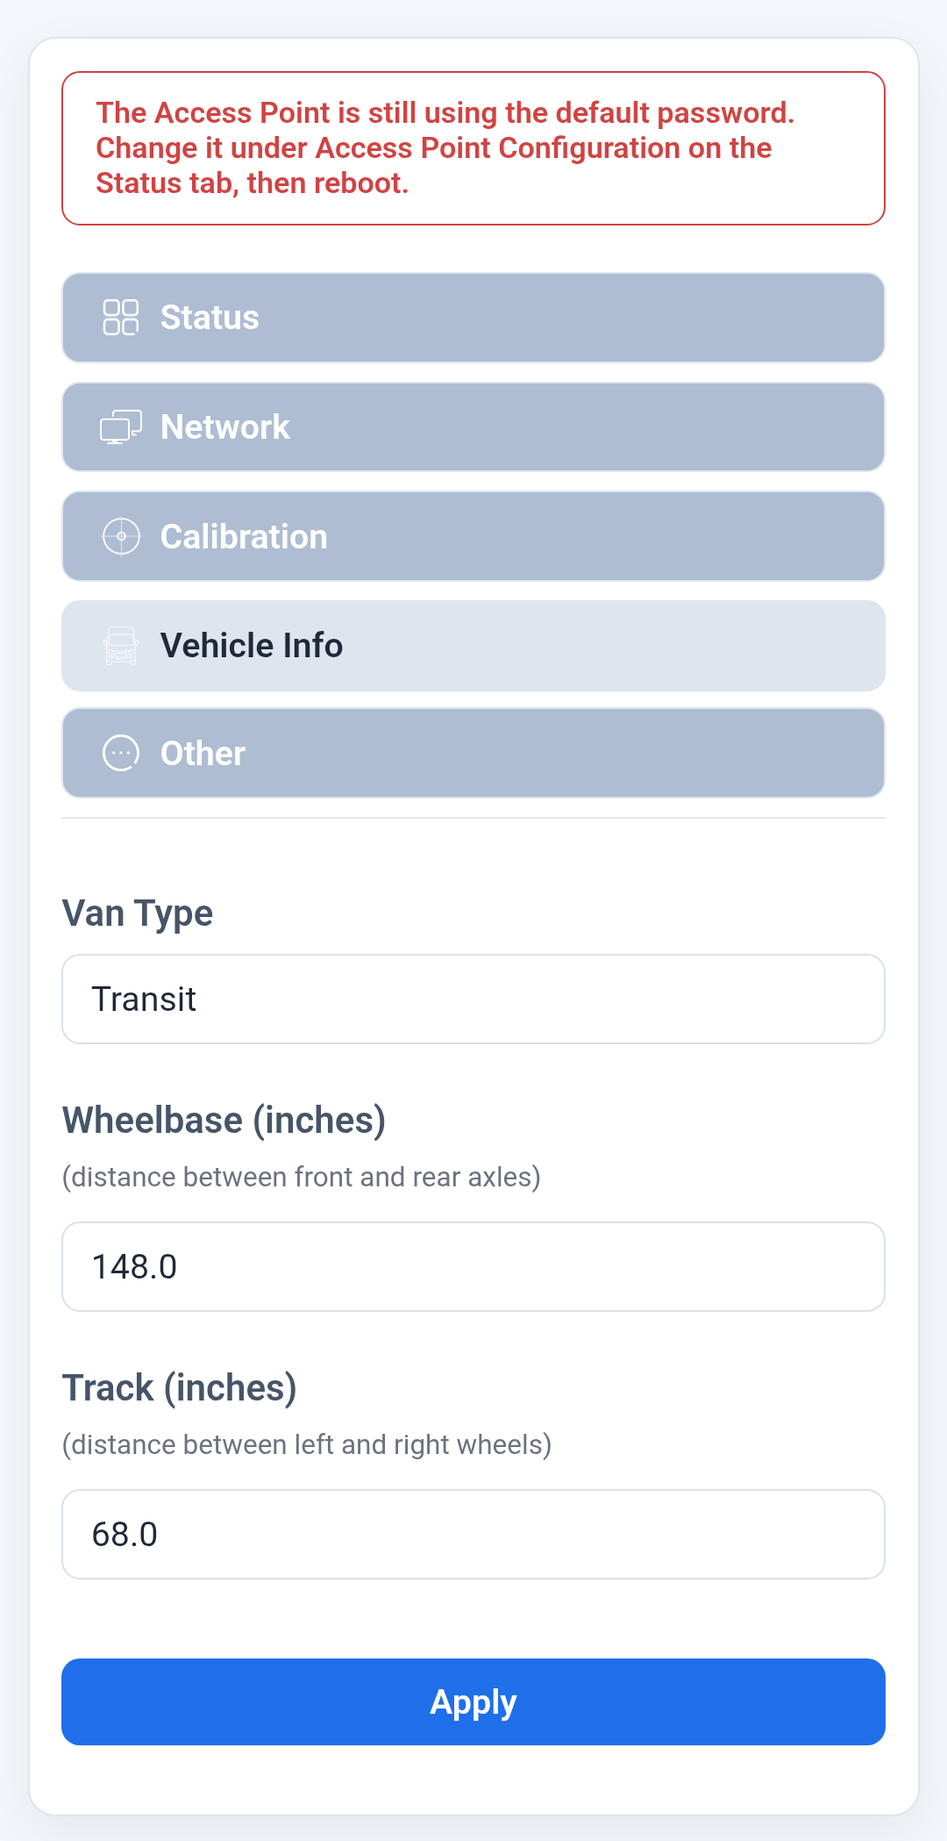
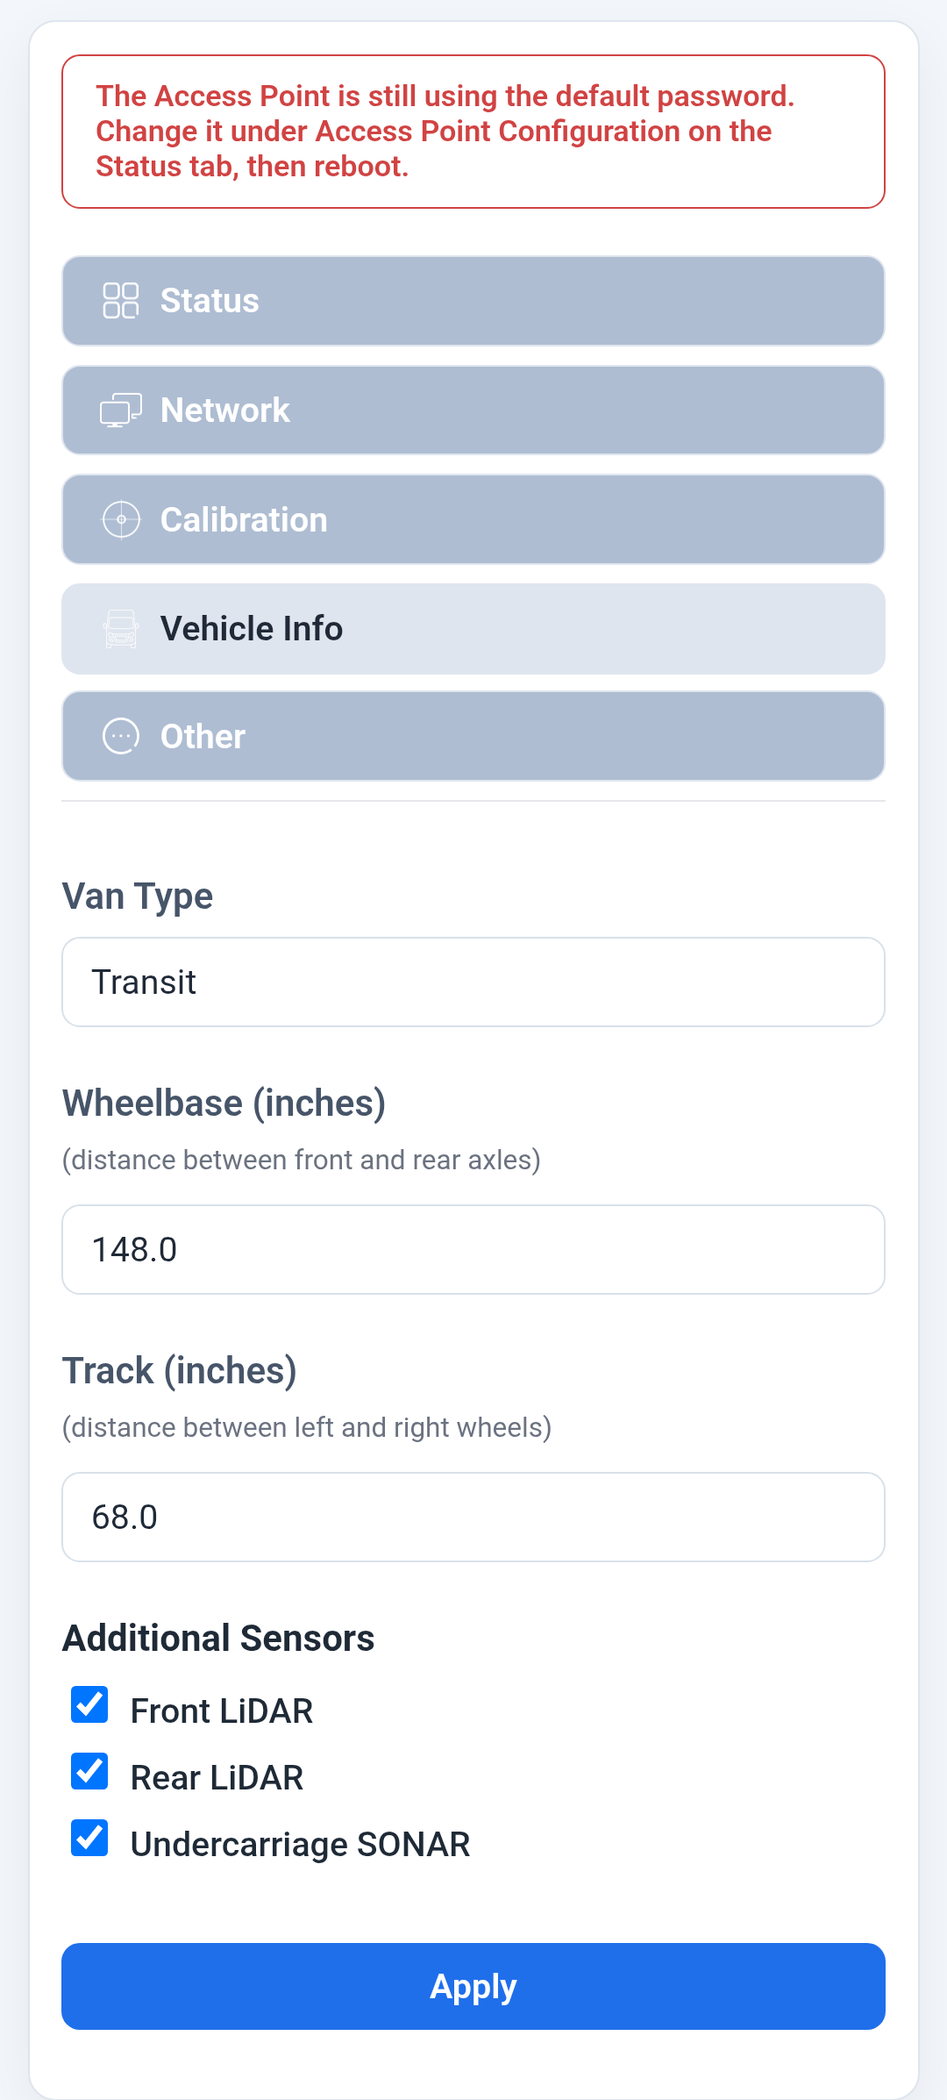
Added unique identifier to AP
Removed APconfig.json file and moved default AP configuration into code.  Added unique identifier to AP name.  Documentation updates.

diff --git a/Van_Level_App/Van_Level/data/index.html b/Van_Level_App/Van_Level/data/index.html
@@ -7,7 +7,9 @@
   <meta http-equiv=X-UA-Compatible content=IE=edge>
   <title>Van Level</title>
   <meta name="viewport" content="width=device-width, initial-scale=1">
-  <link rel="icon" type="image/png" href="images/favicon.png">
+  <link rel="icon" type="image/png" sizes="32x32" href="images/favicon-32x32.png">
+  <link rel="icon" type="image/png" sizes="16x16" href="images/favicon-16x16.png">
+  <link rel="icon" href="images/favicon.ico" sizes="any">
   <style>
     :root {
       color-scheme: light dark;
@@ -299,7 +301,8 @@
       var meters = distance * unit.meters;
       var state = "unknown";
       if (distance >= 0 && id === 1) {
-        state = meters < 0.0508 ? "obstacle" : "clear";
+        if (!Number.isFinite(reading.obstacleThresholdMm) || reading.obstacleThresholdMm <= 0) return unknown;
+        state = meters < reading.obstacleThresholdMm / 1000 ? "obstacle" : "clear";
       } else if (distance > 0) {
         var clearDistance = Math.round(LIDAR_MAX_METERS / unit.meters * 10);
         state = reading.distance >= clearDistance ? "clear" : "obstacle";

diff --git a/Van_Level_App/Van_Level/data/setup.html b/Van_Level_App/Van_Level/data/setup.html
@@ -6,7 +6,9 @@
   <meta http-equiv=X-UA-Compatible content=IE=edge>
   <meta name=viewport content="width=device-width, initial-scale=1">
   <title>Van Level Setup</title>
-  <link rel="icon" type="image/png" href="images/favicon.png">
+  <link rel="icon" type="image/png" sizes="32x32" href="images/favicon-32x32.png">
+  <link rel="icon" type="image/png" sizes="16x16" href="images/favicon-16x16.png">
+  <link rel="icon" href="images/favicon.ico" sizes="any">
   <style>
     :root {
       --space-1: 8px;

diff --git a/README.md b/README.md
@@ -2,9 +2,15 @@
 
 ## Overview
 
-ESP32 Based digital level to display leveling information for a camper van. This originally started as an ESPHome application however, the requirement to have Home Assistant running on your phone or tablet in order to see the leveling information was cumbersome.  It was decided that displaying the information on a simple web page, instead of a Home Assistant Lovelace overview, would be much easier to use.  However, there is also a [Home Assistant Dashboard](HOMEASSISTANT.md) setup available.
+ESP32 based inclinometer to display leveling information for a camper van. This originally started as an ESPHome application however, the requirement to have Home Assistant running on your phone or tablet in order to see the leveling information was cumbersome.  It was decided that displaying the information on a simple web page, instead of a Home Assistant Lovelace overview, would be much easier to use.  As an option, there is also a [Home Assistant Dashboard](HOMEASSISTANT.md) setup available.
 
 This app displays a simple webpage with a graphic of a camper van showing the amount of wheel lift (blocking) needed under each tire to level the van.  Included is the *Van Level* app, Kicad PCB files, and Solidworks files to modify a Hammond enclosure to contain the project.
+
+This app can also integrate with optional LiDAR sensors to detect obstacles in front of and/or behind the vehicle.  Additionally, an ultrasonic rangefinder can be mounted underneath the vehicle to sense obstructions there.
+
+  See:  
+  >[Van_Lidar](https://github.com/gearhead765/Van-Lidar)  
+   [Van_Sonic](https://github.com/gearhead765/Van-Sonic)
 
 ## Product Images
 
@@ -12,7 +18,7 @@ This app displays a simple webpage with a graphic of a camper van showing the am
 
 ## Project Structure
 
-```
+```text
 ├── CAD Model/                       # SolidWorks 3D model of the board and Hammond enclosure
 ├── Notes/                           # Datasheets and component references
 ├── Van_Level_App/Van_Level          # Arduino ESP32 source code
@@ -40,15 +46,15 @@ The Wifi supports a standard network client, using either DHCP or static network
 
 The leveling information can be viewed using any browser that supports Javascript. The webpage displays an image of a van, and a value next to each wheel requiring blocking.  The rounding of the height values presented can be adjusted to correspond to your leveling block height.  If you have 1" blocks, the rounding value can be set to change in 1" increments.  Additionally, the image background will change to green when the vehicle is level within a user specified range.
 
-The van image can be changed to reflect your particular vehicle model and color, and the vehicle's wheelbase and track measurements can be edited to fit your particular van.  Details on these features are in [Software](SOFTWARE.md).
+The van image can be changed to reflect your particular vehicle model and color when compiling the firmware.  Details on this feature is in [Software](SOFTWARE.md).
 
 ## Getting Started
 
 ### 1. Hardware Setup
 1. Connect the ESP32 board to 12V DC power via connector C1 observing correct polarity.
-1. Connect to the built-in Access Point by opening your phone or computer Wifi Settings and selecting the `VAN_LEVEL` access point.
+1. Connect to `VanLevel_nnnn` in your phone or computer's Wi-Fi settings. The `nnnn` suffix is the last four hexadecimal digits of the device's factory MAC address, without colons (for example, `VanLevel_0ABC`).
 1. The default password for the access point is `12345678`.
-1. The default name `VAN_LEVEL` and password `12345678` can be changed later.
+1. You can change the access point name and password in `/setup` (and it is strongly suggested that you do so). Firmware updates preserve saved AP settings, including the old name if it was saved by earlier firmware.
 1. Open the app webpage in any browser by navigating to the hotspot address `192.168.4.1`.
 1. Your browser window should look something like this:
 <br>![](Images/main_portrait.png)
@@ -58,23 +64,28 @@ The van image can be changed to reflect your particular vehicle model and color,
 1. Next to each wheel location is the number of inches of blocking necessary to level your camper.  If no blocking is needed for a particular wheel, the height for that wheel will be hidden.  The granularity for these values is user selectable (i.e. to match your block height).
 1. Centered on the van image, is the status information for your vehicle, including the current pitch and roll values.  If communication with the app is impaired, the status information will flash to indicate aging wheel lift data.  If communication is impaired for a significant amount of time, the status text will flash faster and the wheel lift data will become grayed out.
 1. If the pitch and roll values are within user defined tolerances, the background will change to green signifying the van is level.  There is an example of this at the begining of this document.
+1. If any of the optional rangefinder sensors are configured on the [Vehicle Info](#vehicle-info) tab, the corresponding sensor regions will appear on the main display.
 
 ### 3. AP Configuration
-1. To connect the *Van Level* app to your local network, or to change the default access point address, name, and/or password, we need to connect to the configuration page.  Navigate your browser to `192.168.4.1/setup`.
+1. To connect the *Van Level* app to your local network, or to change the default access point address, name, and/or password, we need to connect to the configuration page.  On initial setup, you will need to connect your phone or tablet to Van Level's default hotspot.
+1. Open your devices WiFi settings and select the *network* with the name that looks like `VanLevel_1AB3`.  The last four characters will vary and represent the last two bytes of the ESP32's MAC address.
+1. Enter the default AP password of `12345678`.  You should see a message that says `Connected`; you may also see something along the lines of `no internet access available`.  You can ignore this later message.
+<br>![](Images/ap_login.png)
+1. Once connected to the Van Level's hotspot, navigate your browser to `192.168.4.1/setup`.
 1. You will be asked for a login name and password.  These are the same as the AP name and password initially, and can be easily changed later.
 <br>![](Images/setup_login.png)
 1. After pressing `Sign in`, your browser should now be displaying the app setup page with the `status` tab selected:
 <br>![](Images/settings_status.png)
-1. On this page, you can change the Access Point name, IP address, and password.
+1. On this page, you can change the Access Point name, IP address, and password.  It is recommended that you change the AP password (new passwords must be at least 8 characters).  You can leave the name and IP address at their default values, or change those to suit.
 1. If you make changes to any of the AP settings, after hitting `Apply`, you will need to switch to the `Other` tab and select `Reboot` to enable the changes.
 1. The setup page authorization name and password **are the same** as the AP name and password.  If you change the AP name and/or password on this page, remember the values so you can log into the device configuration later.
-1. There will be an alert at the top of the page if you are using the default name and/or password.  For security reasons, it is best to change these to something uniquely yours.
-1. If you forget your AP name or password, you will no longer be able to log into the `setup` page to make changes.  If this happens, you can reset the App to the original defaults by holding down the 'Boot' button on the ESP32 board for 5 seconds while the device reboots.
+1. There will be an alert at the top of the page if you are using the default password.  For security reasons, it is best to change these to something uniquely yours.
+1. If you forget your AP name or password, you will no longer be able to log into the `setup` page to make changes.  If this happens, you can reset the App to the original defaults by holding down the `Boot` button on the ESP32 board for 5 seconds while the device reboots.
 
 ### 4. Network Configuration
 1. The `Network` tab allows you to connect the *Van Level* app to your local network.  Pressing the `Scan Wi-Fi` button will search for all available access points.  When the scanning is finished, selecting the `Nearby WLAN` dropdown will present a list of all APs found allowing you to select one.
 <br>![](Images/settings_network.png)
-1. Enter the WiFi password for this network.
+1. Enter the WiFi password for the selected network.
 1. You can now select DHCP or Static network configuration.  After you have made your selections and filled in the network password, click `Apply`.  Changes are automatic and you do not need to restart the device.
 1. You can switch back to the `Status` tab and verify your selected WiFi connection.
 
@@ -82,8 +93,8 @@ The van image can be changed to reflect your particular vehicle model and color,
 ![](Images/settings_calibration.png)
 1. If the pitch or roll values of your van are not `0` when the van is level, you can enter the opposite amount here to tare the display.  For example, if your van shows +1.0° pitch when level, enter -1.0 in the pitch offset box.
 1. Depending on how you mount the Van Level hardware, your pitch and roll values might move in the opposite direction.  Positive pitch should be nose up, and positive roll should be clockwise looking forward (i.e. drivers side higher than the passenger side).  Select `Reverse Direction` if either of your values are opposite of this standard.
-1. The `Filter Alpha` setting controls the amount of *dampening* on the pitch and roll readings. I have found a setting of `0.10` seems to be a good compromise between responsiveness and reading jitter.
-1. The `Block Size` setting should be set to the smallest block thickness in your stash.  If you have plywood blocks, you might set this to `0.5` [1/2"].  If you use 2 by 12 blocks then you would set this to `1.5` [the nominal thickness of 1.5"].  Many aftermarked plastic block sets are 1" increments.
+1. The `Filter Alpha` setting controls the amount of *dampening* on the pitch and roll readings. I have found a setting of `0.10` seems to be a good compromise between responsiveness and jitter.
+1. The `Block Size` setting should be set to the smallest block thickness in your stash.  If you have plywood blocks, you might set this to `0.5` [1/2"].  If you use 2 by 12 blocks then you would set this to `1.5` [the nominal thickness of "2-by" material].  Many aftermarked plastic block sets are 1" increments.
 1. Finally, pitch and roll tolerance is a subjective measure of what you consider *good enough*.  If your vehicle's pitch and roll angles are below these settings, the web page background will turn green signaling *level*.  For reference, on my van with a 148" wheelbase and 68" track, the table below shows various block heights and the corresponding angle values.  I have my tolerances set to slightly less than the 1" block angles since I consider anything less than 1" *good enough*.
 
     | Block Height (inches) | Pitch Angle Change | Roll Angle Change |
@@ -97,8 +108,16 @@ The van image can be changed to reflect your particular vehicle model and color,
 
 1. Click the `Apply` button to immediately apply these changes.
 
+### 6. Vehicle Info
+![](Images/settings_vehicle.png)
+1.  `Van Type` is the descriptive text that will be displayed on the device's home screen.
+2.  `Wheelbase` & `Track` are vehicle geometry used in the wheel blocking calculations.
+3.  `Additional Sensors` controls the visibility of the additional [Van_Lidar](https://github.com/gearhead765/Van-Lidar) and [Van_Sonic](https://github.com/gearhead765/Van-Sonic) sensor regions on the device home page as shown below:
 
-### 6. Other
+![](Images/level_sensors.png)
+
+
+### 7. Other
 ![](Images/settings_other.png)
 1.  `Reboot` will restart the Van Level device retaining all of your current settings.
 1.  `Reset` will clear your stored Wifi network information and restore the default AP captive portal name and password.  **Make sure** this is what you want before pressing `Reset`.  If you have forgotten your AP name and password and can no longer access the configuration page because of this, it is possible to reset the hardware physically.  This process is discussed in [Software](SOFTWARE.md).

diff --git a/SOFTWARE.md b/SOFTWARE.md
@@ -4,38 +4,38 @@
 
 This is an ESP32 application to read sensor data from a MEMS accelerometer and convert this into wheel block heights to level a camper van.  Block heights are displayed on a webpage (index.html) showing an image of the van roof with the block height needed at each wheel.
 
+HomeAssistant integration is via an embedded webpage (iframe) or a RESTful sensor and Picture Card. See HomeAssistant directory for an example YAML package and Lovelace card code.
 
-HomeAssistant integration is via and embedded webpage (iframe) or a RESTful sensor and Picture Card. See HomeAssistant directory for an example YAML package and Lovelace card code.
-
-The `/setup` page allows configuration of the Access Point (default values are located in [data/APconfig.json](Van_Level_App/Van_Level/data/APconfig.json), Wifi network setup, sensor calibration, van information, and firmware updates.
+The `/setup` page allows configuration of the access point, Wi-Fi network, sensor calibration, van information, and firmware updates.
 
 ## Setting up the Arduino Environment
 Included in the [Notes](Notes/) folder are numerous links to Arduino tutorials on the Web.  Among them are links to Rui & Sara Santos' [Random Nerd Tutorials](https://randomnerdtutorials.com/).  This application was based on their [ESP32 Web Server](https://randomnerdtutorials.com/esp32-web-server-gauges/) app.  Their pages will give you the necessary background on installing the Arduino IDE, Boards, and Libraries.  If you are not already familiar with these items, I highly recommend giving their tutorials some attention.
 
 ### Necessary Libraries
- - [ESPAsyncWebServer](https://github.com/ESP32Async/ESPAsyncWebServer)
- - [AsyncTCP](https://github.com/ESP32Async/AsyncTCP)
- - [Arduino_JSON](https://github.com/arduino-libraries/Arduino_JSON)
- - [ElegantOTA](https://github.com/ayushsharma82/ElegantOTA)
- - [Adafruit_BusIO](https://github.com/adafruit/Adafruit_BusIO)
- - [Adafruit_Sensor](https://github.com/adafruit/Adafruit_Sensor)
- <br>&nbsp;&nbsp;&nbsp;&nbsp;&nbsp;&nbsp;And one of the following
- - [Adafruit_ADXL343](https://github.com/adafruit/Adafruit_ADXL343)
- <br>&nbsp;&nbsp;&nbsp;&nbsp;&nbsp;&nbsp;Or
- - [Adafruit_MPU6050](https://github.com/adafruit/Adafruit_MPU6050)
- <br>&nbsp;&nbsp;&nbsp;&nbsp;&nbsp;&nbsp;Or
-- [Adafruit_MSA301](https://github.com/adafruit/Adafruit_MSA301)
+- [Adafruit_BusIO](https://github.com/adafruit/Adafruit_BusIO)
+- [Adafruit_Sensor](https://github.com/adafruit/Adafruit_Sensor)  
+- [Arduino_JSON](https://github.com/arduino-libraries/Arduino_JSON)
+- [AsyncTCP](https://github.com/ESP32Async/AsyncTCP)
+- [ElegantOTA](https://github.com/ayushsharma82/ElegantOTA)  -  Note: Be sure to enable async mode in `ElegantOTA`.[^1]
+
+[^1]: Set ELEGANTOTA_USE_ASYNC_WEBSERVER to 1 in ElegantOTA.h (or via build flags) before compiling.
+
+- [ESPAsyncWebServer](https://github.com/ESP32Async/ESPAsyncWebServer)
+  ##### And one of the following
+  - [Adafruit_ADXL343](https://github.com/adafruit/Adafruit_ADXL343)  
+  - [Adafruit_MPU6050](https://github.com/adafruit/Adafruit_MPU6050)  
+  - [Adafruit_MSA301](https://github.com/adafruit/Adafruit_MSA301)
 
 ### IDE Enhancements
-See the *Random Nerd Tutorial* above for installation instructions
+See the [Random Nerd Tutorial](https://randomnerdtutorials.com/esp32-web-server-gauges/) above for installation instructions
  - [arduino-littlefs-upload](https://github.com/earlephilhower/arduino-littlefs-upload)
  
 ## The Van Level Program
 As previously mentioned, the program is structured along the lines of *Random Nerd Tutorial's* [ESP32 Web Server](https://randomnerdtutorials.com/esp32-web-server-gauges/). The beginning starts with the global variable declarations, followed by functions to initialize our IMU sensor and retrieve data from it.
 
-Our program sets up a local Access Point with the default SSID `VAN_LEVEL` that we will use to configure the WiFi access.  We have a single event listener to watch for Access Point connection requests and limit to a single connection.
+Our program sets up a local access point with the default SSID `VanLevel_nnnn`, where `nnnn` is the last four hexadecimal digits of the device's factory MAC address. The access point allows one connection at a time.
 
-The program actually begins in the `setup()` function where we start by setting up our local file system using LittleFS, and open the file [data/APconfig.json](Van_Level_App/Van_Level/data/APconfig.json) containing our default AP configuration information used to log into the captive Access Point.
+During `setup()`, the firmware mounts LittleFS for web pages and static assets. It uses saved access point settings when present; otherwise it uses the MAC-based SSID and the built-in password `12345678` and IP address `192.168.4.1`.
 
 At this point in the setup process, there is a 3-second pause to allow the `Boot` button on the ESP board to be pressed.  If pressed, this will erase the saved preferences in EEPROM.  Useful if you have customized the AP information and subsequently forgotten it.
 
@@ -45,11 +45,13 @@ With the saved AP and Wifi information retrieved, or default values substituted,
 
 One of the query handlers is a RESTful API that is the meat of our application.  We send our lightly processed IMU data as a JSON response to registered API listeners.  The raw IMU data is converted to pitch and roll angles using floating point math to take advantage of the EPS32's built-in FPU.  These pitch and roll values are processed with a low pass filter (an Exponential Moving Average), adjusted based on the calibration settings, and then served to listeners.
 
+We also establish an ESP-Now listener to accept data packets from other ESP32 devices with additional sensors.  Current devices include [Van_Lidar](https://github.com/gearhead765/Van-Lidar) and [Van_Sonic](https://github.com/gearhead765/Van-Sonic).  These devices publish rangefinder data using a common [data packet structure](<Notes/ESPNow Data Structure.txt>).  There are user selectable options for displaying this sensor information on the `Van Level` UX.
+
 With our handlers in place, we establish our WiFi connection, and then sit by and listen for requests to serve pages and data.
- 
+
 ## Programming the ESP32
 ### Initial Programming
-The initial programming of the ESP32 development board will require a USB/TTL programmer like the [SH-U09C5 USB to TTL UART](https://www.amazon.com/DSD-TECH-SH-U09C5-Converter-Support/dp/B07WX2DSVB) since the Feather board does not have built-in USB support.  Once the initial program and LittleFS have been installed the first time, you can then use the application setup page and the Elegant OTA features to remote load your updates Over-The-Air.
+The initial programming of the ESP32 development board will require a USB/TTL programmer like the [SH-U09C5 USB to TTL UART](https://www.amazon.com/DSD-TECH-SH-U09C5-Converter-Support/dp/B07WX2DSVB) since the Feather board does not have built-in USB support.  You are free to choose a different board, for example, the Xiao ESP32-S3 is an even smaller board that does not require a programmer.  Once the initial program and LittleFS have been installed the first time, you can then use the application setup page and the Elegant OTA features to remote load your updates Over-The-Air.
 ### Firmware OTA updates:
 Using the Arduino IDE, firmware updatess are created by selecting "Sketch>Export Compiled Binary". The generated file will be saved under your project folder inside a Build folder then a series of other folders. The file with the `.ino.bin` extension is the one you should upload to your board using the ElegantOTA web page.
 

diff --git a/HARDWARE.md b/HARDWARE.md
@@ -35,4 +35,4 @@ The boards were produced by [OSHPark](https://oshpark.com/shared_projects/d4r7hp
 
 ![](Images/van_level_pcb.png)
 
-Assembly is straight forward.  Solder the lowest components first.  The Huzzah board was mounted on headers, but the IMU board was mounted directly on top of the carrier board to allow the IMU board to clear the inside of the box.
+Assembly is straight forward.  Solder the lowest components first.  The Huzzah board was mounted on headers, but the IMU board was mounted directly on top of the carrier board to allow the IMU board to clear the inside of the box.  Since the Recom DC-DC converter is fairly heavy and this will be used in a high-vibration environment, you might want to adhere the converter to the PCB with a suitable adhesive (3M DP420NS or similar).
